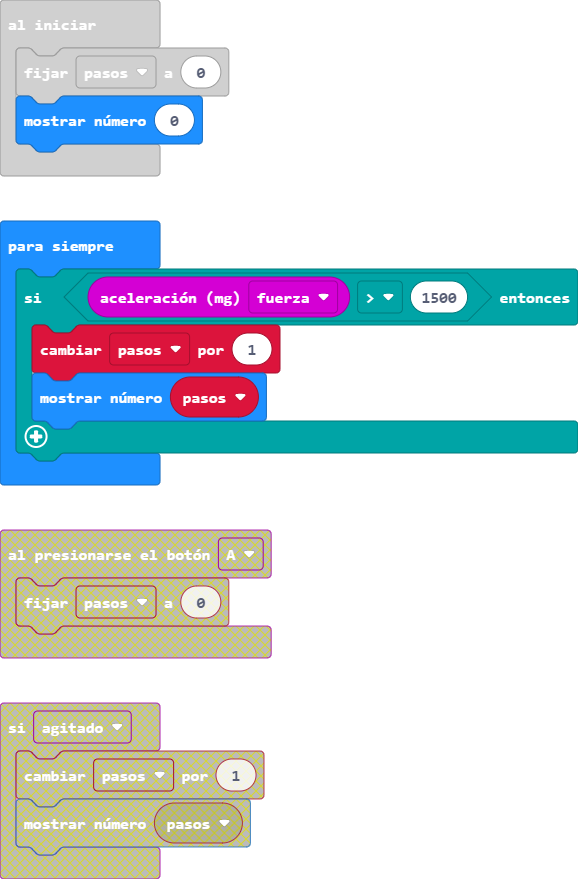
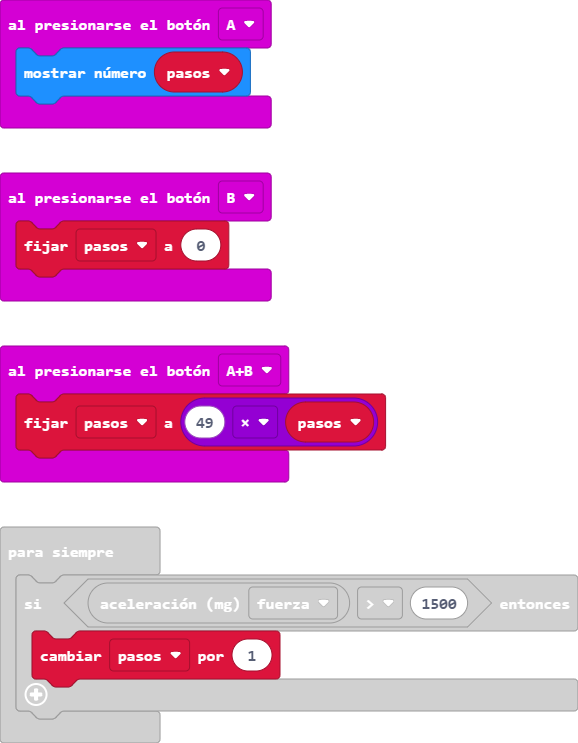
Actualizar main.blocks, main.ts

diff --git a/main.ts b/main.ts
@@ -1,8 +1,17 @@
+input.onButtonPressed(Button.A, function () {
+    basic.showNumber(pasos)
+})
+input.onButtonPressed(Button.AB, function () {
+    pasos = 49 * pasos
+})
+input.onButtonPressed(Button.B, function () {
+    pasos = 0
+})
 let pasos = 0
+pasos = 0
 basic.showNumber(0)
 basic.forever(function () {
     if (input.acceleration(Dimension.Strength) > 1500) {
         pasos += 1
-        basic.showNumber(pasos)
     }
 })
